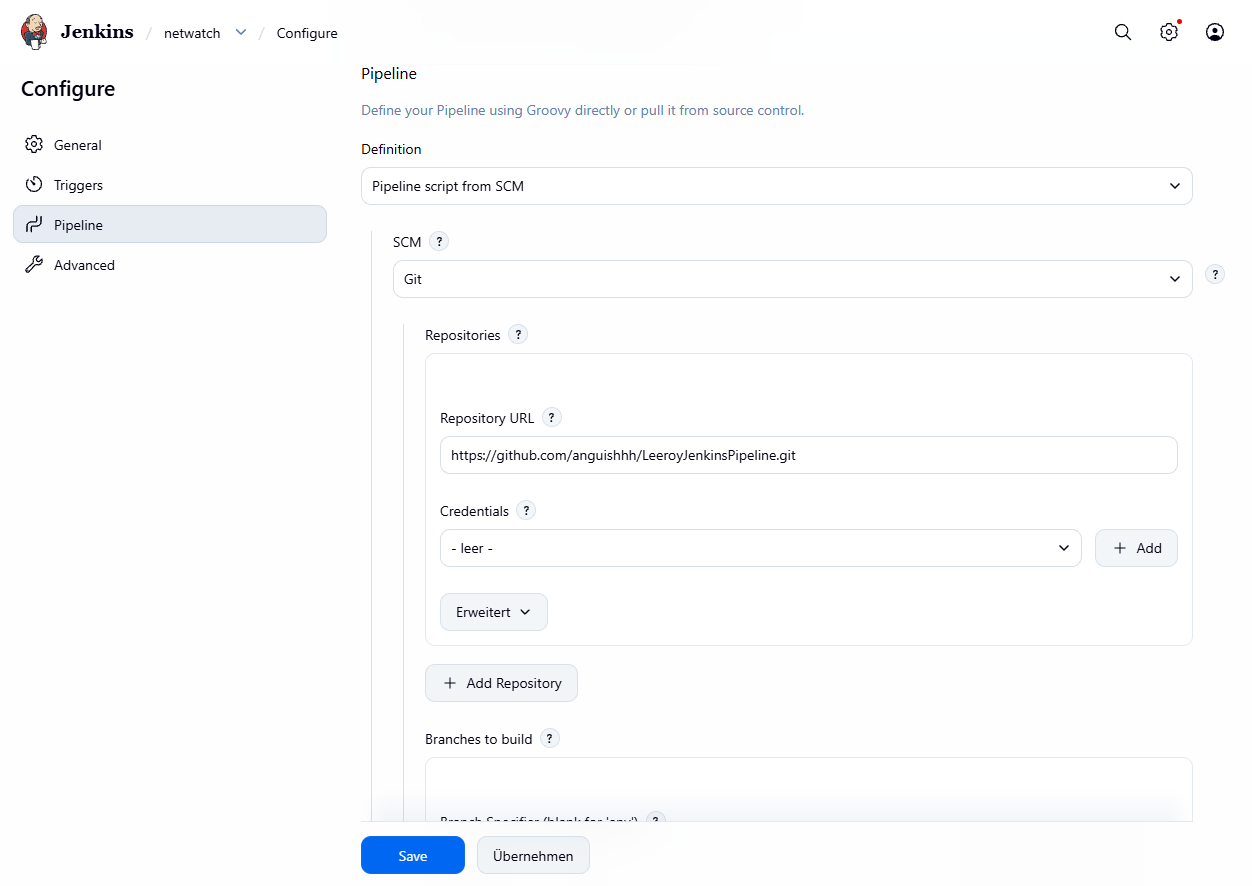
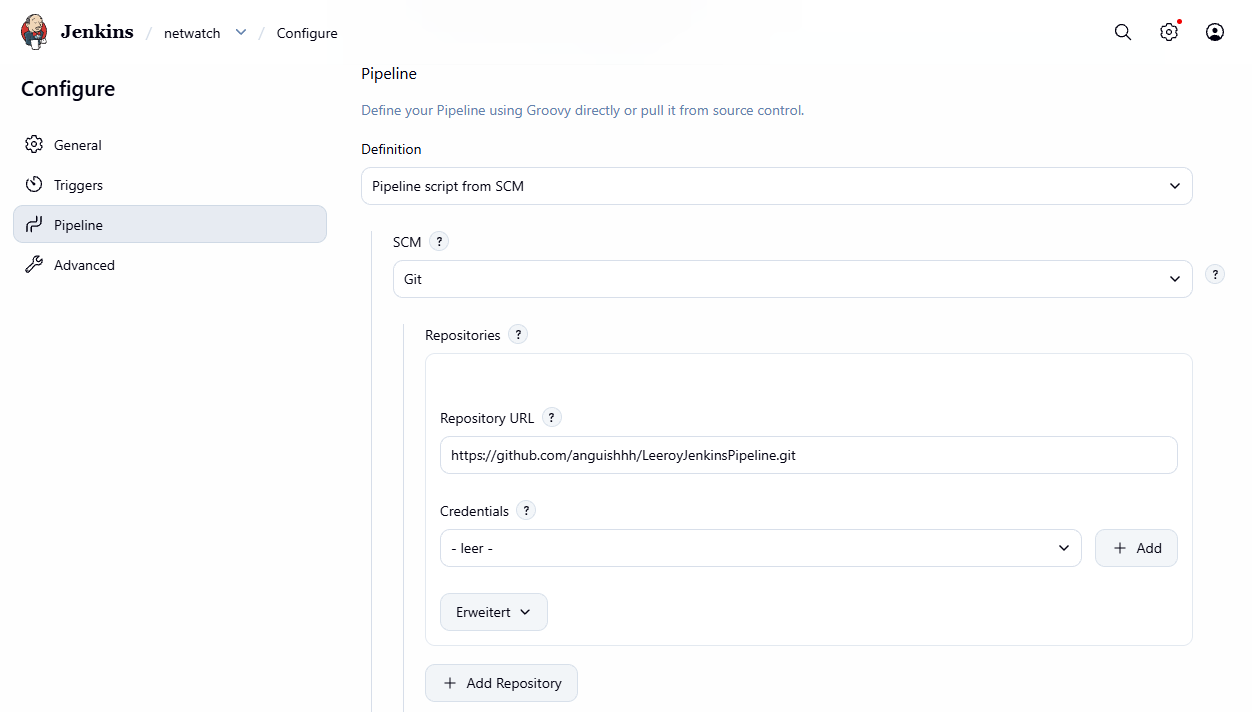
Screenshot 7 ergänzt: Branch und Script Path der Job-Konfiguration
Screenshot7.png zeigt den oberen Teil (Pipeline script from SCM,
Repository-URL, keine Credentials), Screenshot7b.png den unteren
(Branch */main, Script Path Jenkinsfile).

diff --git a/docs/cms-dokumentation.md b/docs/cms-dokumentation.md
@@ -547,6 +547,8 @@ Damit liegt die gesamte Pipeline-Definition im Repository und nicht in der Jenki
 
 > Screenshot7
 
+> Screenshot7b
+
 ### 10.2 Aufbau der Pipeline
 
 | Stage | Inhalt | Dauer (Build #6) |
